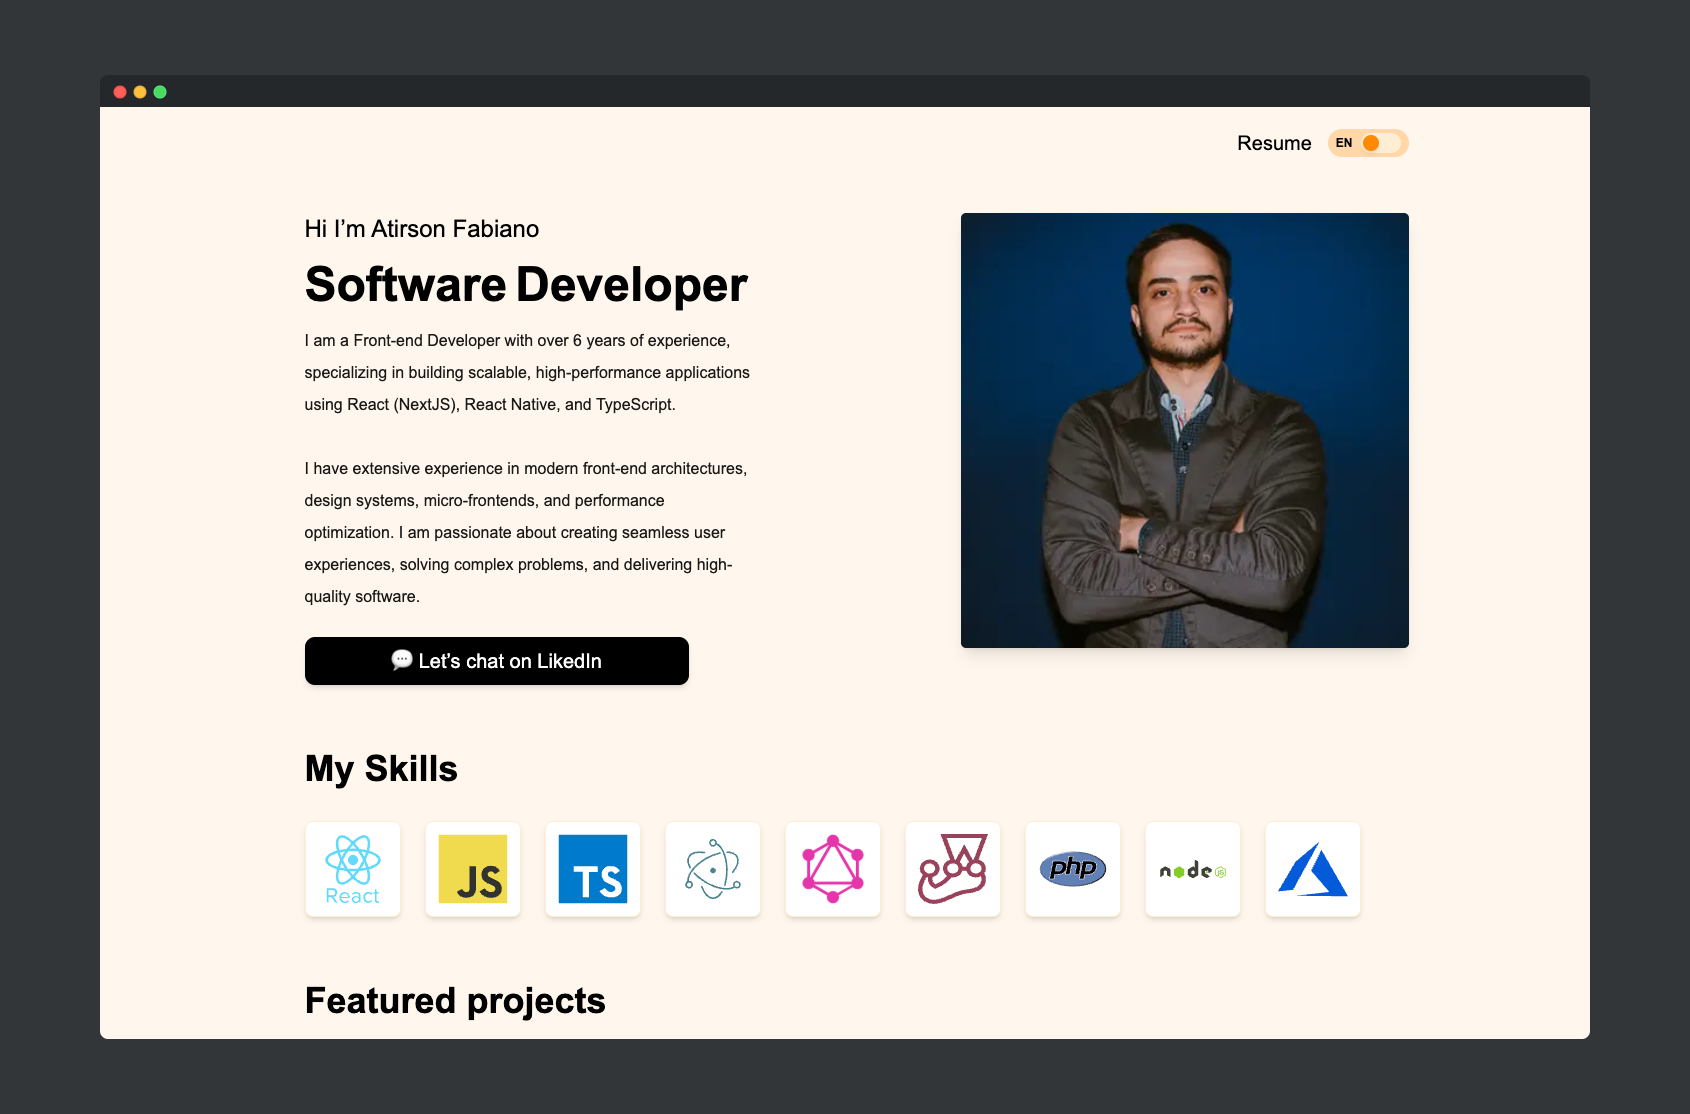
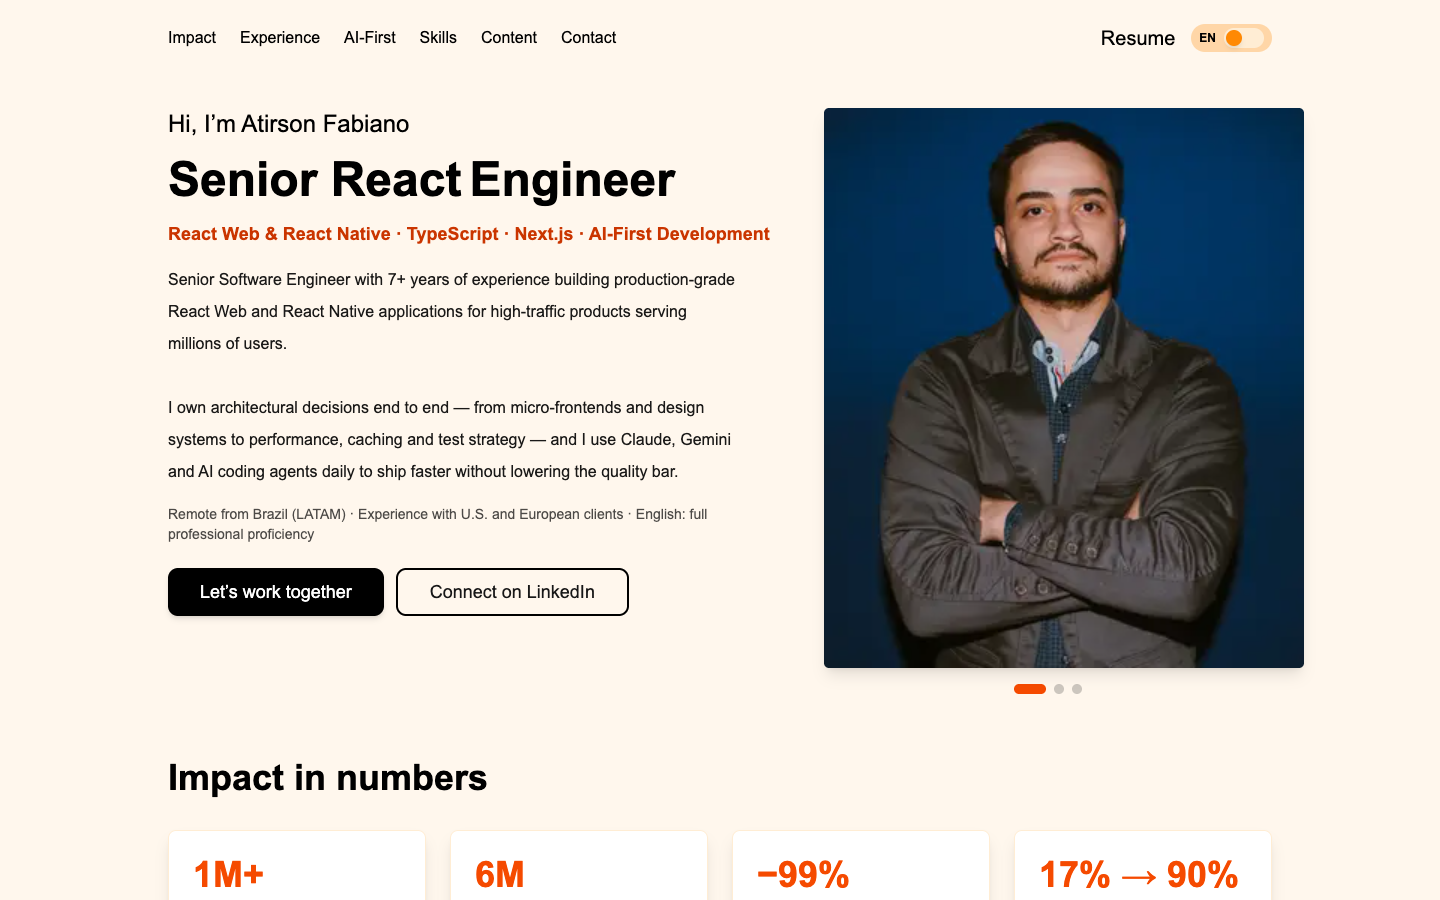
docs: rewrite README and refresh screenshots for the new version
- README now matches the repository: the three surfaces (portfolio,
  linktree, wedding page), features, stack, required/optional env
  vars, scripts (including `npm test`), Node 22.6+ requirement, the
  current app/ tree, the Claude Code agents/skills in .claude/, and
  the manual pre-release checks (there is no CI).
- Removed claims that were not true: next-intl with translations in
  /messages (copy lives in locales/*.json, imported directly) and a
  structure tree missing the linktree and wedding routes.
- Screenshots retaken from the production build: desktop hero, impact
  + experience, AI-First + skills (1440px) and mobile hero + experience
  (390px, device emulation).
- CLAUDE.md: root redirect now follows Accept-Language, and the repo
  has a minimal `npm test` suite.

diff --git a/README.md b/README.md
@@ -1,38 +1,59 @@
-# Personal Portfolio
+# Atirson Fabiano — Portfolio
 
-A clean, modern personal portfolio built with **Next.js**, **React**, **TypeScript**, **Tailwind CSS**, and internationalization support.
+Personal site of **Atirson Fabiano, Senior React Engineer** (React Web & React Native · TypeScript · Next.js · AI-First Development), live at **[www.atirson.com](https://www.atirson.com)**.
+
+One Next.js 16 (App Router) deployment serves three independent surfaces:
+
+| Route | What it is |
+|---|---|
+| `/en`, `/pt` | The professional portfolio, bilingual. `/` redirects to the visitor's language (`Accept-Language`). |
+| `/linktree` | A link-in-bio page with a feature-flag demo powered by [`feature-flow-js`](https://www.npmjs.com/package/feature-flow-js). |
+| `/ravyla-atirson` | A personal wedding page with a photo gallery (`/ravyla-atirson/galeria`). |
+
+---
+
+## 📸 Screenshots
+
+### Desktop
+
+![Hero: Senior React Engineer, tagline, about text and calls to action](.github/images/desktop.png)
+
+![Impact in numbers, companies and the experience section](.github/images/desktop-impact.png)
+
+![AI-First Engineering section and skills](.github/images/desktop-ai.png)
+
+### Mobile
+
+<p>
+  <img src=".github/images/mobile.png" alt="Mobile hero" width="300" />
+  &nbsp;
+  <img src=".github/images/mobile-experience.png" alt="Mobile experience section" width="300" />
+</p>
 
 ---
 
 ## ✨ Features
 
-- **Modern stack:** Next.js 16, React 19, TypeScript 5
-- **Styling:** Tailwind CSS 4
-- **Internationalization:** next-intl (App Router compatible)
-- **Data fetching:** graphql-request, GraphQL 16
-- **Linting & Formatting:** ESLint 9, Biome
-- **Production-ready:** Build & start scripts
+- **Portfolio sections:** hero, impact in numbers, companies, experience & case studies (challenge → what I did → impact → stack), AI-First engineering, skills, education & languages, open-source projects, YouTube & articles, and a contact form.
+- **Bilingual (en/pt):** all static copy lives in `locales/en.json` and `locales/pt.json`; a unit test keeps both files structurally identical.
+- **CMS content:** open-source projects, skill icons and résumé links come from [Hygraph](https://hygraph.com/) (GraphQL).
+- **SEO:** per-locale metadata with canonical and `hreflang` alternates, `Person` JSON-LD, `sitemap.xml`, `robots.txt`, and a generated Open Graph / Twitter image per locale built from the same locale copy.
+- **Contact form:** `POST /api/contact` validates input, rate-limits per IP and forwards the message as an [ntfy](https://ntfy.sh/) notification.
+- **Analytics:** Google Analytics 4 events for CTAs, navigation, projects, videos, articles and scroll depth.
+- **Accessibility:** semantic landmarks, a keyboard-operable mobile menu, labelled form fields and a video modal that closes with <kbd>Esc</kbd>.
 
 ---
 
 ## 🛠 Tech Stack
 
-| Core         | Styling         | i18n           | Data Layer      | Dev Tooling         |
-|--------------|----------------|----------------|-----------------|---------------------|
-| ![Next.js](https://img.shields.io/badge/Next.js-000?logo=nextdotjs&logoColor=white) ![React](https://img.shields.io/badge/React-20232a?logo=react&logoColor=61dafb) ![TypeScript](https://img.shields.io/badge/TypeScript-3178c6?logo=typescript&logoColor=white) | ![Tailwind CSS](https://img.shields.io/badge/Tailwind_CSS-38bdf8?logo=tailwindcss&logoColor=white) | ![next-intl](https://img.shields.io/badge/next--intl-ffda79?logo=vercel&logoColor=black) | ![GraphQL](https://img.shields.io/badge/GraphQL-e535ab?logo=graphql&logoColor=white) ![graphql-request](https://img.shields.io/badge/graphql--request-ff69b4?logo=graphql&logoColor=white) | ![Formatted with Biome](https://img.shields.io/badge/Formatted_with-Biome-60a5fa?style=flat&logo=biome) |
-
----
-
-
-## 📸 Screenshots
-
-### Desktop Preview
-
-![Desktop preview](.github/images/desktop.png)
-
-### Mobile Preview
-
-<img src=".github/images/mobile.png" alt="Mobile preview" width="375"  />
+| Area | Tools |
+|---|---|
+| Framework | ![Next.js](https://img.shields.io/badge/Next.js_16-000?logo=nextdotjs&logoColor=white) ![React](https://img.shields.io/badge/React_19-20232a?logo=react&logoColor=61dafb) ![TypeScript](https://img.shields.io/badge/TypeScript_5-3178c6?logo=typescript&logoColor=white) |
+| Styling | ![Tailwind CSS](https://img.shields.io/badge/Tailwind_CSS_4-38bdf8?logo=tailwindcss&logoColor=white) |
+| Data | ![GraphQL](https://img.shields.io/badge/GraphQL-e535ab?logo=graphql&logoColor=white) ![Hygraph](https://img.shields.io/badge/Hygraph-000?logo=hygraph&logoColor=white) via `graphql-request` |
+| Feature flags | `feature-flow-js` (linktree) |
+| Analytics | ![Google Analytics](https://img.shields.io/badge/GA4-e37400?logo=googleanalytics&logoColor=white) |
+| Quality | ![ESLint](https://img.shields.io/badge/ESLint_9-4b32c3?logo=eslint&logoColor=white) ![Biome](https://img.shields.io/badge/Biome-60a5fa?logo=biome&logoColor=white) Node's built-in test runner |
 
 ---
 
@@ -40,39 +61,27 @@ A clean, modern personal portfolio built with **Next.js**, **React**, **TypeScri
 
 ### Prerequisites
 
-- Node.js (LTS recommended)
-- pnpm, yarn, or npm
+- **Node.js 22.6+** (the test script uses Node's TypeScript type stripping)
+- npm
 
-### Install
+### Environment variables
+
+Copy `.env.example` to `.env` and fill it in:
+
+| Variable | Required | Purpose |
+|---|---|---|
+| `NEXT_PUBLIC_HYGRAPH_ENDPOINT` | Yes | Hygraph GraphQL endpoint. The portfolio throws at request time without it. |
+| `NEXT_HYGRAPH_TOKEN` | No | Hygraph auth token, if the content API is not public. |
+| `NEXT_PUBLIC_ENVIRONMENT` | No | Environment name used by the linktree's local feature flags. |
+
+### Run
 
 ```bash
-# with pnpm
-pnpm install
-
-# or with yarn
-yarn
-
-# or with npm
 npm install
+npm run dev        # http://localhost:3000
 ```
 
-### Development
-
-```bash
-npm run dev
-# or
-yarn dev
-# or
-pnpm dev
-```
-
-### Lint
-
-```bash
-npm run lint
-```
-
-### Build and Start (Production)
+### Production build
 
 ```bash
 npm run build
@@ -81,89 +90,73 @@ npm run start
 
 ---
 
-## 📦 Available Scripts
+## 📦 Scripts
 
-| Script   | Description         |
-|----------|---------------------|
-| dev      | next dev            |
-| build    | next build          |
-| start    | next start          |
-| lint     | eslint              |
+| Script | Command | Description |
+|---|---|---|
+| `dev` | `next dev` | Development server |
+| `build` | `next build` | Production build |
+| `start` | `next start` | Serve the production build |
+| `lint` | `eslint` | ESLint (Next.js core-web-vitals + TypeScript rules) |
+| `test` | `node --experimental-strip-types --test …` | Unit tests for helpers and en/pt locale parity |
 
----
-
-## 🗂 Project Structure (Simplified) App Folder
-
-````shell
-.
-├── [locale]
-│   ├── homeClient.tsx
-│   ├── layout.tsx
-│   └── page.tsx
-├── api
-│   └── contact
-│       └── route.ts
-├── components
-│   ├── ContactForm.tsx
-│   └── LanguageSwitch.tsx
-├── favicon.ico
-├── global.d.ts
-├── globals.css
-├── hooks
-│   └── useAnalytics.ts
-├── lib
-│   ├── gtag.ts
-│   └── hygraph.ts
-├── og-image.png
-├── page.tsx
-└── services
-    └── usePortfolioDetails.ts
-````
+Formatting and extra lint rules run through Biome: `npx biome check .`
 
 ---
 
-## 🌐 Internationalization
+## 🗂 Project Structure
 
-- Configure locales and `defaultLocale` via [next-intl](https://next-intl-docs.vercel.app/docs/getting-started/app-router).
-- Store translation JSON per locale in `/messages`.
-- Use translation hooks in components/pages.
+```shell
+app/
+├── [locale]/                 # Portfolio (en/pt)
+│   ├── layout.tsx            # Metadata, canonical/hreflang, GA4
+│   ├── page.tsx              # Data fetching + Person JSON-LD
+│   ├── homeClient.tsx        # Page sections (client component)
+│   ├── opengraph-image.tsx   # Generated social preview per locale
+│   └── twitter-image.tsx
+├── api/
+│   ├── contact/route.ts      # Contact form → ntfy
+│   └── feature-flags/route.ts# "Remote" flags for the linktree
+├── components/               # ContactForm, LanguageSwitch
+├── hooks/useAnalytics.ts
+├── lib/
+│   ├── experience.ts         # Years of experience
+│   ├── locale.ts             # Accept-Language → locale
+│   ├── site.ts               # Site URL and social links
+│   ├── gtag.ts               # GA4 helpers
+│   ├── hygraph.ts            # GraphQL client
+│   ├── flag.config.ts        # Local feature flags
+│   └── remote-flags.ts
+├── services/usePortfolioDetails.ts  # Hygraph queries
+├── linktree/                 # Link-in-bio page
+├── ravyla-atirson/           # Wedding page + gallery
+├── page.tsx                  # Locale redirect
+├── sitemap.ts
+└── robots.ts
+locales/
+├── en.json
+└── pt.json
+```
 
 ---
 
-## 🔗 GraphQL Usage
+## 🤖 Built with AI agents
 
-- Use [graphql-request](https://github.com/jasonkuhrt/graphql-request) for simple, typed queries.
-- Create a client, define queries, and fetch data in server or client components.
+This repository is maintained with [Claude Code](https://claude.com/claude-code). The `.claude/` folder holds the project's agents and skills:
 
----
+- **Agents:** `portfolio-architect`, `portfolio-developer`, `portfolio-reviewer`, `portfolio-content`, `portfolio-seo`, `portfolio-release`.
+- **Skills:** `validate-portfolio`, `verify-links`, `verify-documentation`, `audit-accessibility`, `audit-performance`, `audit-seo`, `generate-project-case-study`, `generate-changelog`, `release-checklist`.
 
-## 🎨 Styling
-
-- [Tailwind CSS 4](https://tailwindcss.com/) utility-first classes.
-- Responsive design with a mobile-first approach.
-
----
-
-## 🧹 Code Quality
-
-- ESLint with Next.js config.
-- Optional: [Biome](https://biomejs.dev/) for fast formatting/linting.
+`CLAUDE.md` describes the architecture, rules and the recommended workflow between them.
 
 ---
 
 ## ☁ Deployment
 
-- Build: `npm run build`
-- Start: `npm run start` on your host of choice (Vercel, Netlify, etc.)
+Deployed on Vercel from `npm run build`. There is no CI pipeline: run `npm run lint`, `npx tsc --noEmit`, `npm test` and `npm run build` before shipping (the `release-checklist` skill covers this).
 
 ---
 
 ## 📄 License
 
-[MIT](LICENSE)
-
----
-
-## 👤 Author
-
-**Atirson Fabiano** — Personal portfolio
+[MIT](LICENSE) © Atirson Fabiano

diff --git a/CLAUDE.md b/CLAUDE.md
@@ -8,11 +8,11 @@ Atirson Fabiano's personal site: a Next.js 16 (App Router) app that bundles **th
 2. `app/linktree/*` — a link-in-bio microsite with its own layout, GA bootstrap, and a `feature-flow-js` feature-flag integration: local flags in `app/lib/flag.config.ts`, "remote" flags served by `app/api/feature-flags/route.ts` (backed by `app/lib/remote-flags.ts`) — a real Next.js Route Handler that deploys with the rest of the app on Vercel, not a separate process.
 3. `app/ravyla-atirson/*` — a personal wedding-invitation page. Real app code, deserving engineering scrutiny, but **not** professional-portfolio content.
 
-Stack: Next.js 16, React 19, TypeScript 5 (strict), Tailwind CSS 4, GraphQL via `graphql-request`, GA4 analytics, Biome + ESLint 9. **No test suite. No CI/CD pipeline** (`.github/` only holds README screenshots).
+Stack: Next.js 16, React 19, TypeScript 5 (strict), Tailwind CSS 4, GraphQL via `graphql-request`, GA4 analytics, Biome + ESLint 9. **Minimal unit tests** (`npm test`, Node's built-in runner: `app/**/*.test.ts`, `locales/*.test.ts`). **No CI/CD pipeline** (`.github/` only holds README screenshots).
 
 ## Architecture
 
-- Routing: App Router, `app/[locale]` uses `generateStaticParams` for `en`/`pt`; root `app/page.tsx` redirects to `/pt`.
+- Routing: App Router, `app/[locale]` uses `generateStaticParams` for `en`/`pt`; root `app/page.tsx` redirects to `/en` or `/pt` based on `Accept-Language` (`app/lib/locale.ts`).
 - Data: local JSON for static copy, Hygraph GraphQL for projects/skills/resume. `app/lib/hygraph.ts` throws at request time if `NEXT_PUBLIC_HYGRAPH_ENDPOINT` is unset.
 - SEO: per-locale `generateMetadata` in `app/[locale]/layout.tsx`, `Person` JSON-LD in `app/[locale]/page.tsx`, `app/sitemap.ts`, `app/robots.ts`, base URL nominally centralized in `app/lib/site.ts` (verify it's actually consistent — see `portfolio-seo`).
 - Analytics: GA4 (`app/lib/gtag.ts`, `app/hooks/useAnalytics.ts`), bootstrapped independently per layout (portfolio and linktree each load their own GA script).
@@ -74,7 +74,7 @@ Not every change needs the full chain — a copy fix only needs `portfolio-conte
 
 ## Validation
 
-Run `validate-portfolio` (lint + `tsc --noEmit` + build + asset/env checks) before considering any change complete. There is no test suite in this repo — don't claim tests passed.
+Run `validate-portfolio` (lint + `tsc --noEmit` + build + asset/env checks) before considering any change complete. Also run `npm test` (Node's built-in test runner; covers helpers and en/pt locale parity) — it is not a full test suite, so don't claim UI behavior is tested.
 
 ## Git Rules
 
